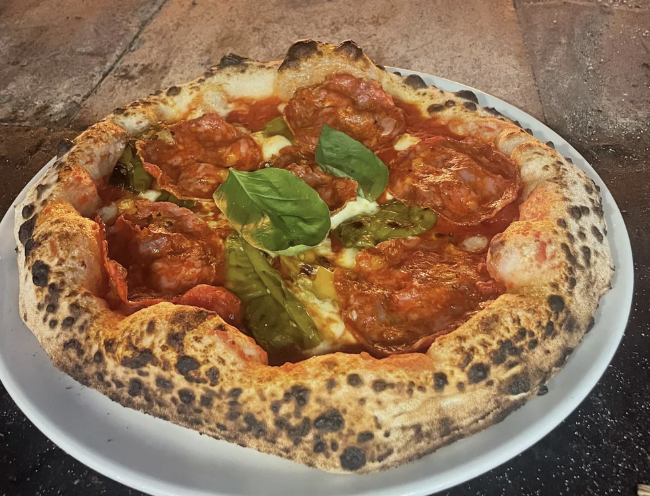
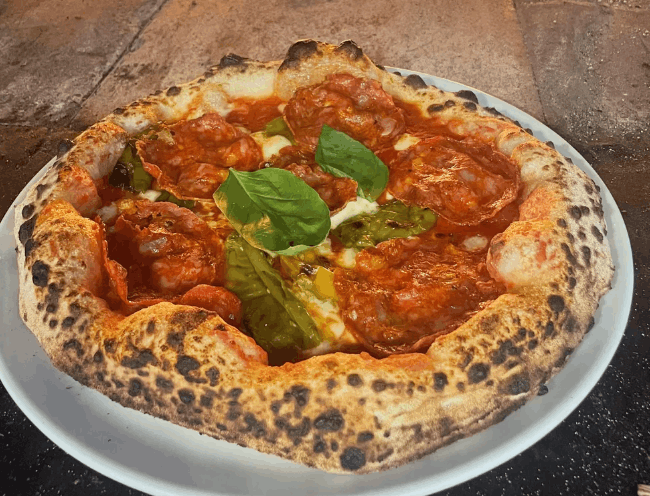
Add Vegetarian pizzas

diff --git a/src/components/PizzaCards.vue b/src/components/PizzaCards.vue
@@ -10,10 +10,11 @@
         <div class="card border-0 shadow-sm pizza-card">
           <div class="image-container">
             <img :src="getPizzaImage(pizza.image)" class="pizza-image" :alt="pizza.name" />
-            <div v-if="isInLocalStorage(pizza.name)" class="heart-icon" @click="toggleLSPizza(pizza.name)">♥</div>
-            <div v-else class="heart-icon" @click="toggleLSPizza(pizza.name)">♡</div>
+            <div v-if="pizza.isVegetarian" class="vegetarian-icon" title="Vegetarian">🌱</div>
+            <div class="heart-icon" @click="toggleLSPizza(pizza.name)">
+              {{ isInLocalStorage(pizza.name) ? '♥' : '♡' }}
+            </div>
           </div>
-
           <div class="card-body">
             <h5 class="pizza-title">
               The {{ pizza.name }}
@@ -117,17 +118,45 @@ function getPizzaImage(imageName: string | undefined): string {
   position: absolute;
   top: 10px;
   right: 10px;
-  font-size: 1.4rem;
-  color: #e53e3e;
-  background: white;
-  border-radius: 50%;
   width: 34px;
   height: 34px;
+  background: white;
+  border-radius: 50%;
   display: flex;
   align-items: center;
   justify-content: center;
+  font-size: 1.4rem;
+  color: #e53e3e;
   cursor: pointer;
   box-shadow: 0 2px 6px rgba(0, 0, 0, 0.15);
+  transition: all 0.3s ease;
+}
+
+.heart-icon:hover {
+  transform: scale(1.1);
+  box-shadow: 0 4px 12px rgba(229, 62, 62, 0.25);
+}
+
+.vegetarian-icon {
+  position: absolute;
+  top: 10px;
+  left: 10px;
+  width: 36px;
+  height: 36px;
+  background: linear-gradient(135deg, #a5ffcb 0%, #8cffc2 100%);
+  border-radius: 50%;
+  border: 2px solid white;
+  display: flex;
+  align-items: center;
+  justify-content: center;
+  font-size: 1.1rem;
+  box-shadow: 0 2px 8px rgba(72, 187, 120, 0.3);
+  transition: all 0.3s ease;
+}
+
+.vegetarian-icon:hover {
+  transform: scale(1.12);
+  box-shadow: 0 4px 14px rgba(72, 187, 120, 0.4);
 }
 
 .pizza-image {

diff --git a/src/models/Pizza.ts b/src/models/Pizza.ts
@@ -4,4 +4,5 @@ export interface Pizza {
   image?: string
   note?: string
   ingredients: string[]
+  isVegetarian: boolean
 }
